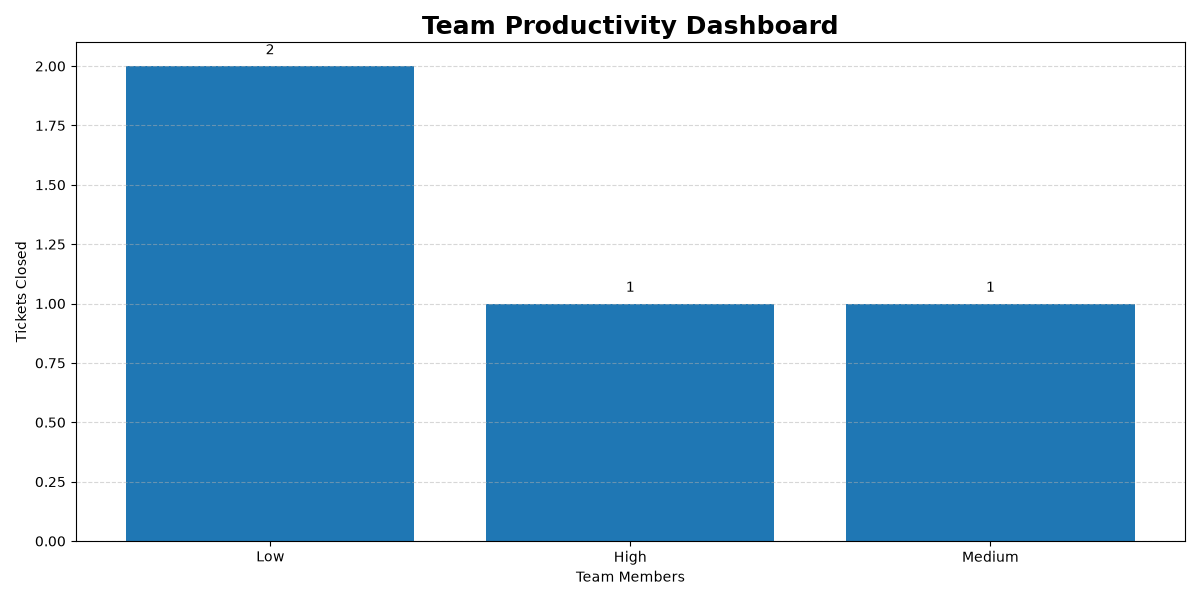
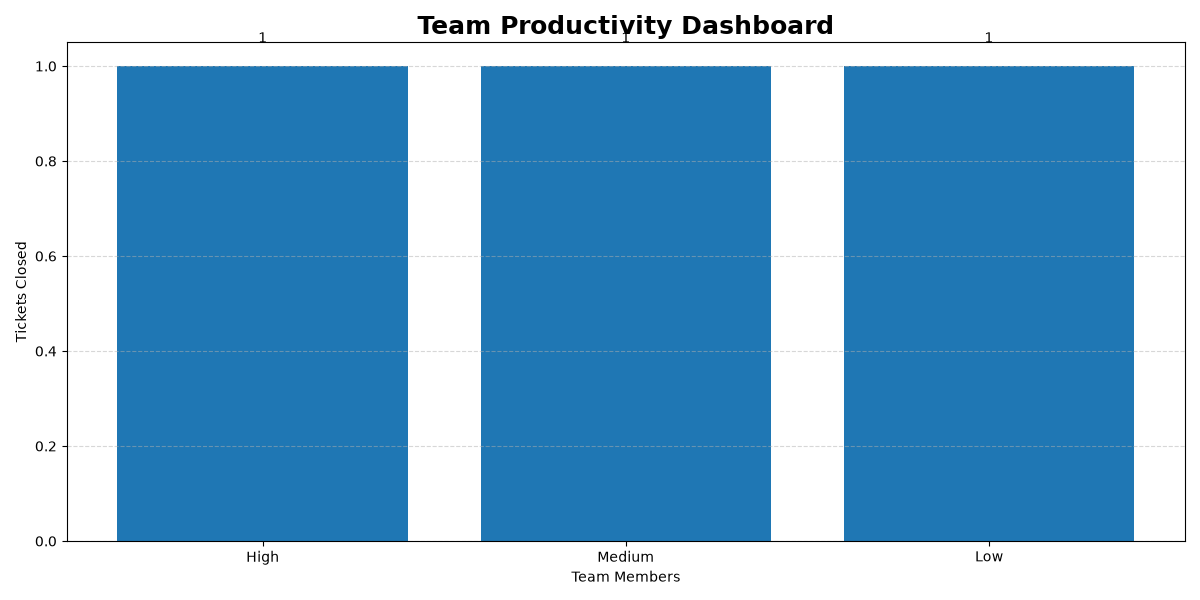
new changes

diff --git a/jira/jira_mock_data.py b/jira/jira_mock_data.py
@@ -19,12 +19,6 @@ MOCK_JIRA_TICKETS = [
         "status": "To Do",
         "assignee": "Sara",
         "priority": "Low"
-    },
-    {
-        "key": "PROJ-104",
-        "summary": "Dashboard Testing",
-        "status": "To Do",
-        "assignee": "test",
-        "priority": "Low"
     }
+
 ]

diff --git a/utils/email_sender.py b/utils/email_sender.py
@@ -33,7 +33,7 @@ Hello Team,
 Please find attached today's productivity report.
 
 Dashboard Link:
-http://localhost:8501/
+https://jira-integration-framework-5evqdmpazr3kumbh8uqjgq.streamlit.app/
 Regards,
 Automation Framework
 """